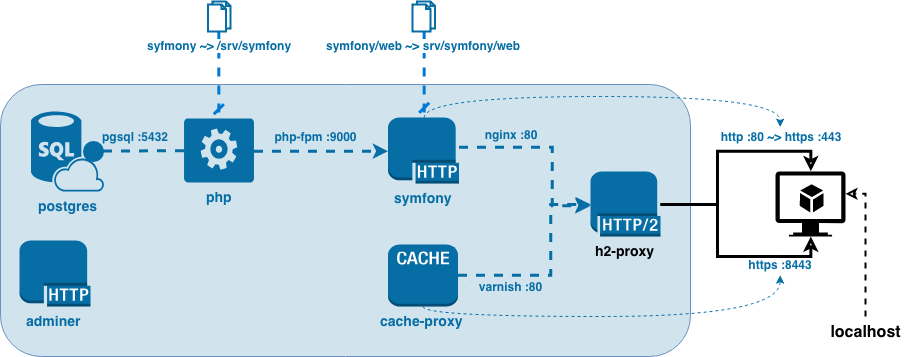
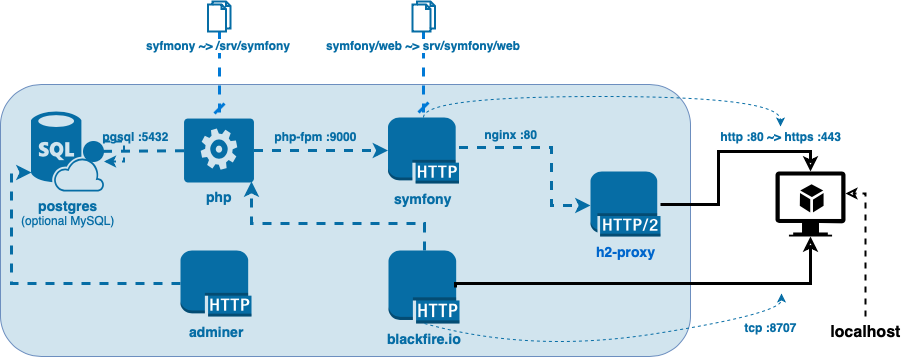
Update README

diff --git a/README.md b/README.md
@@ -11,7 +11,7 @@
 - [See it working! Deployed with Travis and Kubernetes](#see-it-working)
 - [Environment architecture](#environment-architecture)
 - [Quick start](#quick-start)
-- [Video tuturial](#video-tuturial)
+- [Blackfire profiler](#blackfire-profiler)
 - [Directory structure](#directory-structure)
 
 ## See it working! 
@@ -35,18 +35,19 @@ $ docker-compose up
 ```
 Wait for containers to start, then to [http://localhost](http://localhost)
 
-## Video tuturial
-<p align="center">
-	<a href="http://www.youtube.com/watch?feature=player_embedded&v=NIEKB5iRcOs
-	" target="_blank"><img src="http://img.youtube.com/vi/NIEKB5iRcOs/0.jpg" 
-	alt="Setup Symfony 4 with Docker in 5 minutes" width="480" height="320" border="0" /></a>
-</p>
+![Blackfire.io](https://raw.githubusercontent.com/tulik/symfony-4-docker-runtime-env/master/documentation/images/demo.gif)
 
-## Blackfire profiler
+
+
+
+# Blackfire profiler
 **[Blackfire.io](https://blackfire.io)** is continuous PHP Performance Testing. 
+
+![Blackfire.io](https://raw.githubusercontent.com/tulik/symfony-4-docker-runtime-env/master/documentation/images/blackfire-production-demo.gif)
 
 Register your trial, be able to profile both in development and with a paid subscription in production too!
 Don't forget to get your **[Blackfire Companion](https://blackfire.io/docs/integrations/chrome)**.
+
 
 [See call graph](https://blackfire.io/profiles/54e07b00-ead8-4d3b-a471-9334b3d28354/graph)
 
